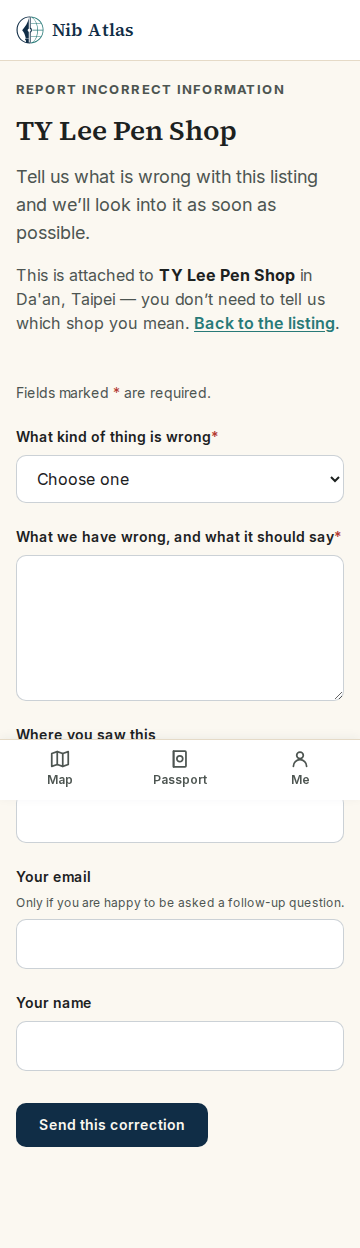
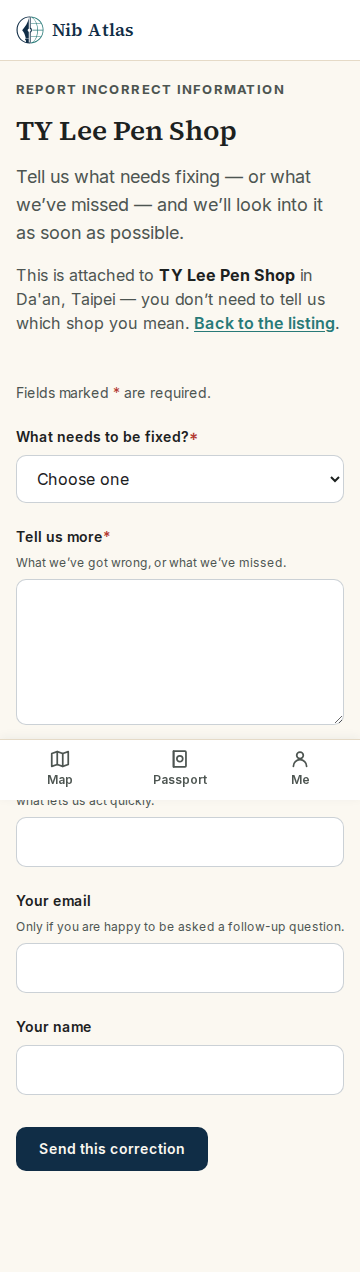
Warm the contribution copy, and let a report be good news
Second staging review. The confirmations read as a support-ticket
auto-reply — "Thank you, that reached us" over "Someone will check this
against the shop's own sources" — and BRAND.md's personality list names
corporate SaaS as something Nib Atlas is not. They are now "Thanks for
contributing!" and "Thanks for reporting!", and the body speaks as us
rather than about an unnamed someone.

The correction list only knew how to complain. Six entries, every one a
fault, so a reader who had just found something good had nowhere to put
it except "Something else" — which frames a gift as a grievance. Two
entries now cover those: something missing that should be here, and a
shop doing more than we have listed. They lead the list, so the first
thing a reader sees is not a way to tell us we were wrong. The page
lede follows; the founder-approved entry-point copy on the shop page is
untouched.

Two labels no longer work once an answer might be an addition: "What
kind of thing is wrong" became "What needs to be fixed?", and "What we
have wrong, and what it should say" became "Tell us more" with the
specifics moved into a hint.

The select's "Choose one" prompt was a selectable option, so the
placeholder could be submitted as an answer. It is disabled now, and
the control's required attribute makes the empty value fail validation.

Claude-Session: https://claude.ai/code/session_01U2r19U4M4PZna4Xn8ZcXVp

diff --git a/src/components/contribute/ContributeForm.test.tsx b/src/components/contribute/ContributeForm.test.tsx
@@ -11,7 +11,8 @@ function renderSuggestion() {
       kind="suggestion"
       fallbackHref={FALLBACK}
       submitLabel="Send this suggestion"
-      confirmation="Someone will look into this shop."
+      confirmationTitle="Thanks for contributing!"
+      confirmation="We’ll look this one up."
       anotherLabel="Suggest another shop"
     />,
   );
@@ -24,7 +25,8 @@ function renderCorrection() {
       shopSlug="ty-lee-pen-shop"
       fallbackHref="mailto:hello@nibatlas.com"
       submitLabel="Send this correction"
-      confirmation="Someone will check this."
+      confirmationTitle="Thanks for reporting!"
+      confirmation="We’ll take a look."
       anotherLabel="Report something else"
     />,
   );
@@ -149,7 +151,7 @@ describe("validation before anything is sent", () => {
     send();
 
     await waitFor(() =>
-      expect(screen.getByRole("status")).toHaveTextContent(/thank you/i),
+      expect(screen.getByRole("status")).toHaveTextContent(/thanks for contributing/i),
     );
   });
 
@@ -171,10 +173,10 @@ describe("what is posted", () => {
     vi.stubGlobal("fetch", fetchMock);
 
     renderCorrection();
-    fireEvent.change(screen.getByLabelText(/what kind of thing is wrong/i), {
+    fireEvent.change(screen.getByLabelText(/what needs to be fixed/i), {
       target: { value: "hours" },
     });
-    type(/what we have wrong/i, "It opens at 11.");
+    type(/tell us more/i, "It opens at 11.");
     send(/send this correction/i);
 
     await waitFor(() => expect(fetchMock).toHaveBeenCalled());
@@ -215,7 +217,7 @@ describe("when the submission cannot be delivered", () => {
     expect(screen.getByLabelText(/what makes it worth a visit/i)).toHaveValue(
       "Enormous nib wall.",
     );
-    expect(screen.queryByText(/thank you/i)).not.toBeInTheDocument();
+    expect(screen.queryByText(/thanks for/i)).not.toBeInTheDocument();
   });
 
   it("treats a network failure the same way", async () => {
@@ -253,7 +255,7 @@ describe("when the submission cannot be delivered", () => {
     await waitFor(() =>
       expect(screen.getByRole("alert")).toHaveTextContent(/country is needed/i),
     );
-    expect(screen.queryByText(/thank you/i)).not.toBeInTheDocument();
+    expect(screen.queryByText(/thanks for/i)).not.toBeInTheDocument();
   });
 });
 
@@ -267,8 +269,8 @@ describe("when it works", () => {
 
     const confirmation = await screen.findByRole("status");
 
-    expect(confirmation).toHaveTextContent(/thank you/i);
-    expect(confirmation).toHaveTextContent(/someone will look into this shop/i);
+    expect(confirmation).toHaveTextContent(/thanks for contributing/i);
+    expect(confirmation).toHaveTextContent(/we’ll look this one up/i);
     expect(screen.queryByRole("button", { name: /send this suggestion/i })).not.toBeInTheDocument();
   });
 

diff --git a/src/features/contribute/contribute-schema.ts b/src/features/contribute/contribute-schema.ts
@@ -72,7 +72,7 @@ export const SUGGESTION_FIELDS: readonly FieldDefinition[] = [
   {
     name: "local_name",
     label: "Local name",
-    hint: "The name on the shopfront, if it isn\u2019t in English \u2014 like \u6fc0\u58a8 or \u30ca\u30ac\u30b5\u30ef\u6587\u5177\u30bb\u30f3\u30bf\u30fc.",
+    hint: "The name on the shopfront, if it isn’t in English — like 激墨 or ナガサワ文具センター.",
     control: "text",
     required: false,
     maxLength: 200,
@@ -120,23 +120,32 @@ export const SUGGESTION_FIELDS: readonly FieldDefinition[] = [
 /**
  * Correction categories.
  *
- * Deliberately short and about the listing, not about the shop's quality. There
- * is no *bad experience* option: this route corrects the record, and a review
- * surface is not being built here.
+ * About the listing, never about the shop's quality. There is no *bad
+ * experience* option: this route corrects the record, and a review surface is
+ * not being built here.
+ *
+ * **Not every entry is a fault.** The first draft read as a complaint form —
+ * six ways for the reader to tell us we were wrong and nothing else — so two
+ * entries cover the happier cases: a shop that does more than the listing says,
+ * and something we simply never had. Those are the reports that make a listing
+ * better rather than merely less wrong, and a list that cannot express them
+ * discourages them.
  */
 export const CORRECTION_TYPES = [
-  { value: "closed", label: "It has closed" },
-  { value: "moved", label: "It has moved" },
+  { value: "missing", label: "Something's missing that should be here" },
+  { value: "more", label: "They do more than we've listed" },
   { value: "hours", label: "The opening hours are wrong" },
   { value: "address", label: "The address or location is wrong" },
-  { value: "details", label: "Something about what it offers is wrong" },
+  { value: "details", label: "Something listed here is wrong" },
+  { value: "moved", label: "It has moved" },
+  { value: "closed", label: "It has closed down" },
   { value: "other", label: "Something else" },
 ] as const;
 
 export const CORRECTION_FIELDS: readonly FieldDefinition[] = [
   {
     name: "correction_type",
-    label: "What kind of thing is wrong",
+    label: "What needs to be fixed?",
     control: "select",
     required: true,
     maxLength: 60,
@@ -144,7 +153,8 @@ export const CORRECTION_FIELDS: readonly FieldDefinition[] = [
   },
   {
     name: "what_is_wrong",
-    label: "What we have wrong, and what it should say",
+    label: "Tell us more",
+    hint: "What we’ve got wrong, or what we’ve missed.",
     control: "textarea",
     required: true,
     maxLength: 2000,

diff --git a/tests/e2e/contribute.spec.ts b/tests/e2e/contribute.spec.ts
@@ -44,7 +44,7 @@ test("suggesting a shop, from Me to a confirmation", async ({ page }) => {
   await page.getByLabel(/^country/i).fill("South Korea");
   await page.getByRole("button", { name: /send this suggestion/i }).click();
 
-  await expect(page.getByRole("status")).toContainText(/thank you/i);
+  await expect(page.getByRole("status")).toContainText(/thanks for contributing/i);
 
   expect(sent).toHaveLength(1);
   expect(sent[0]).toMatchObject({
@@ -96,12 +96,21 @@ test("correcting a listing carries the shop, and never asks which one", async ({
   // Nothing on this form asks the reader to identify the listing.
   await expect(page.getByLabel(/shop name/i)).toHaveCount(0);
 
-  await page.getByLabel(/what kind of thing is wrong/i).selectOption("hours");
-  await page.getByLabel(/what we have wrong/i).fill("It opens at 11, not 10.");
+  // "Choose one" is the starting state, not a choice: it cannot be selected.
+  await expect(
+    page.getByLabel(/what needs to be fixed/i).locator('option[value=""]'),
+  ).toBeDisabled();
+
+  await page.getByLabel(/what needs to be fixed/i).selectOption("missing");
+  await page.getByLabel(/tell us more/i).fill("They repair nibs, which isn’t listed.");
   await page.getByRole("button", { name: /send this correction/i }).click();
 
-  await expect(page.getByRole("status")).toContainText(/thank you/i);
-  expect(sent[0]).toMatchObject({ kind: "correction", shopSlug: "ty-lee-pen-shop" });
+  await expect(page.getByRole("status")).toContainText(/thanks for reporting/i);
+  expect(sent[0]).toMatchObject({
+    kind: "correction",
+    shopSlug: "ty-lee-pen-shop",
+    values: { correction_type: "missing" },
+  });
 });
 
 test("a correction for a listing that does not exist is not a page", async ({ page }) => {

diff --git a/app/shops/[slug]/report/page.tsx b/app/shops/[slug]/report/page.tsx
@@ -27,7 +27,7 @@ export async function generateMetadata({
 
   return {
     title: `Report incorrect information — ${shop.name}`,
-    description: `Tell us what is wrong with the Nib Atlas listing for ${shop.name}.`,
+    description: `Tell us what needs fixing on the Nib Atlas listing for ${shop.name}.`,
     // A correction form has nothing to offer a search result, and indexing one
     // per listing would put a form between a reader and the shop they searched
     // for.
@@ -65,8 +65,8 @@ export default async function ShopReportPage({
       <p className="type-overline">Report incorrect information</p>
       <h1 className="type-h1">{shop.name}</h1>
       <p className="type-body-lg">
-        Tell us what is wrong with this listing and we&rsquo;ll look into it as
-        soon as possible.
+        Tell us what needs fixing &mdash; or what we&rsquo;ve missed &mdash; and
+        we&rsquo;ll look into it as soon as possible.
       </p>
 
       <p>
@@ -80,7 +80,8 @@ export default async function ShopReportPage({
         shopSlug={shop.slug}
         fallbackHref={shopCorrectionHref(shop.name)}
         submitLabel="Send this correction"
-        confirmation="Someone will check this against the shop's own sources and update the listing if it needs it. If you left an email address, we may come back to you with a question."
+        confirmationTitle="Thanks for reporting!"
+        confirmation="We’ll take a look and get the listing updated. If you left an email, we might write if we have a question."
         anotherLabel="Report something else"
       />
     </article>

diff --git a/src/features/contribute/contribute-schema.test.ts b/src/features/contribute/contribute-schema.test.ts
@@ -39,13 +39,21 @@ describe("what a contribution asks for", () => {
   });
 
   it("offers no category that turns a correction into a review", () => {
-    const categories = fieldsFor("correction").find(
-      (field) => field.name === "correction_type",
-    );
-
-    for (const option of categories?.options ?? []) {
+    for (const option of correctionTypes()) {
       expect(option.label).not.toMatch(/rude|bad|poor|rating|review|experience/i);
     }
+  });
+
+  /*
+   * The first draft was six ways to tell us we were wrong and nothing else,
+   * which reads as a complaint form. The reports that make a listing better
+   * rather than merely less wrong need somewhere to go.
+   */
+  it("lets a reader report something good, not only something broken", () => {
+    const values = correctionTypes().map((option) => option.value);
+
+    expect(values).toContain("missing");
+    expect(values).toContain("more");
   });
 
   it("keeps a contact pair on both kinds, and neither is required", () => {
@@ -62,6 +70,13 @@ describe("what a contribution asks for", () => {
     }
   });
 });
+
+function correctionTypes() {
+  return (
+    fieldsFor("correction").find((field) => field.name === "correction_type")
+      ?.options ?? []
+  );
+}
 
 describe("validation", () => {
   it("accepts the minimum, anonymously", () => {

diff --git a/src/components/contribute/ContributeForm.tsx b/src/components/contribute/ContributeForm.tsx
@@ -34,6 +34,7 @@ export function ContributeForm({
   shopSlug,
   fallbackHref,
   submitLabel,
+  confirmationTitle,
   confirmation,
   anotherLabel,
 }: {
@@ -42,6 +43,8 @@ export function ContributeForm({
   /** Where to send someone when the submission cannot be delivered. */
   readonly fallbackHref: string;
   readonly submitLabel: string;
+  /** The warm line at the head of the confirmation. */
+  readonly confirmationTitle: string;
   readonly confirmation: string;
   /** The control the confirmation offers, for sending a second one. */
   readonly anotherLabel: string;
@@ -176,7 +179,7 @@ export function ContributeForm({
         role="status"
         tabIndex={-1}
       >
-        <h2 className={styles.confirmationTitle}>Thank you — that reached us.</h2>
+        <h2 className={styles.confirmationTitle}>{confirmationTitle}</h2>
         <p>{confirmation}</p>
         <div className={styles.actions}>
           <Button variant="secondary" onClick={sendAnother}>

diff --git a/src/components/contribute/Field.tsx b/src/components/contribute/Field.tsx
@@ -75,7 +75,15 @@ export function Field({
         <textarea className={styles.textarea} rows={5} {...shared} />
       ) : definition.control === "select" ? (
         <select className={styles.select} {...shared}>
-          <option value="">Choose one</option>
+          {/*
+            The prompt is the starting state, not a choice. `disabled` keeps it
+            unselectable once the reader has moved off it, so "Choose one" can
+            never be submitted as an answer — and `required` on the control makes
+            the empty value fail validation rather than pass silently.
+          */}
+          <option value="" disabled>
+            Choose one
+          </option>
           {(definition.options ?? []).map((option) => (
             <option key={option.value} value={option.value}>
               {option.label}

diff --git a/app/suggest-shop/page.tsx b/app/suggest-shop/page.tsx
@@ -42,7 +42,8 @@ export default function SuggestShopPage() {
         kind="suggestion"
         fallbackHref={suggestShopHref()}
         submitLabel="Send this suggestion"
-        confirmation="Someone will look into this shop and check what can be confirmed about it. If you left an email address, we may come back to you with a question."
+        confirmationTitle="Thanks for contributing!"
+        confirmation="We’ll look this one up and see what we can confirm. If you left an email, we might write if we have a question."
         anotherLabel="Suggest another shop"
       />
     </article>

diff --git a/docs/milestone-1-5-product-refinement.md b/docs/milestone-1-5-product-refinement.md
@@ -2623,6 +2623,36 @@ substitutions:
   often knows two, and *Suggest another shop* clears the previous answers so the
   second is not the first one edited.
 
+### The second review: the voice, and a form that only knew how to complain
+
+**The confirmations were corporate, and `BRAND.md` already forbids it.** *"Thank
+you — that reached us"* over *"Someone will check this against the shop's own
+sources"* is the register of a support-ticket auto-reply, and the personality
+list names *corporate SaaS* as something Nib Atlas is not. They are now
+**Thanks for contributing!** and **Thanks for reporting!**, and the body speaks
+as us rather than about an unnamed someone: *"We'll take a look and get the
+listing updated. If you left an email, we might write if we have a question."*
+
+**The correction list only knew how to complain.** Six entries, every one of
+them a fault. A reader who had just found something *good* — a service the
+listing never mentioned, a shop doing more than we knew — had nowhere to put it
+except *Something else*, which frames a gift as a grievance. Two entries now
+cover those: **Something's missing that should be here** and **They do more than
+we've listed**, and they lead the list rather than trailing it. The order runs
+from the additions through the corrections to the closure, so the first thing a
+reader sees is not a way to tell us we were wrong.
+
+The page lede follows: *"Tell us what needs fixing — or what we've missed."* The
+founder-approved entry-point copy on the shop page is untouched.
+
+**Two labels, and one control that lied.** *What kind of thing is wrong* became
+**What needs to be fixed?**, and *What we have wrong, and what it should say*
+became **Tell us more**, with the specifics moved into a hint — neither label
+works once the answer might be an addition. The select's *Choose one* prompt was
+a selectable option, so the placeholder could be submitted as an answer; it is
+`disabled` now, and the control's `required` makes the empty value fail
+validation.
+
 **The correction lives at `/shops/[slug]/report`.** The listing is in the route,
 so the page resolves the shop and names it in the heading — not in a prefilled
 field somebody has to read and verify. The reader never identifies the listing,

diff --git a/docs/evidence/milestone-1-5-wp7/README.md b/docs/evidence/milestone-1-5-wp7/README.md
@@ -35,9 +35,9 @@ browser it stays at the foot of the viewport and the form scrolls under it.
 | State | What it shows |
 | --- | --- |
 | `suggest-shop` | The suggestion form, after the founder's staging review. Two sentences of context, then the fields; the two required ones carry an asterisk and a legend says what it means |
-| `report-listing` | The correction form for TY Lee Pen Shop. The listing is the page's heading, not a field: the reader arrived from it, so nothing here asks which shop they mean |
+| `report-listing` | The correction form for TY Lee Pen Shop. The listing is the page's heading, not a field: the reader arrived from it, so nothing here asks which shop they mean. The category list leads with the two entries that are not faults — something missing, and a shop doing more than we listed |
 | `submission-failed` | An intake that could not be reached. It says so, keeps every character that was typed, and offers the pre-addressed email — which has no service behind it to be unavailable |
-| `submission-sent` | The confirmation, which replaces the form only after the route answered `ok`, and offers a blank form for a second suggestion |
+| `submission-sent` | The confirmation, which replaces the form only after the route answered `ok`, and offers a blank form for a second suggestion. *Thanks for contributing!*, in our own voice rather than a support-ticket register |
 | `help` | The walkthrough and the questions. Coverage is not restated here: *Where does Nib Atlas cover* links to About, which derives its list from the catalogue |
 
 The 768 × 1024 and 1440 × 900 captures show responsive integrity only.
